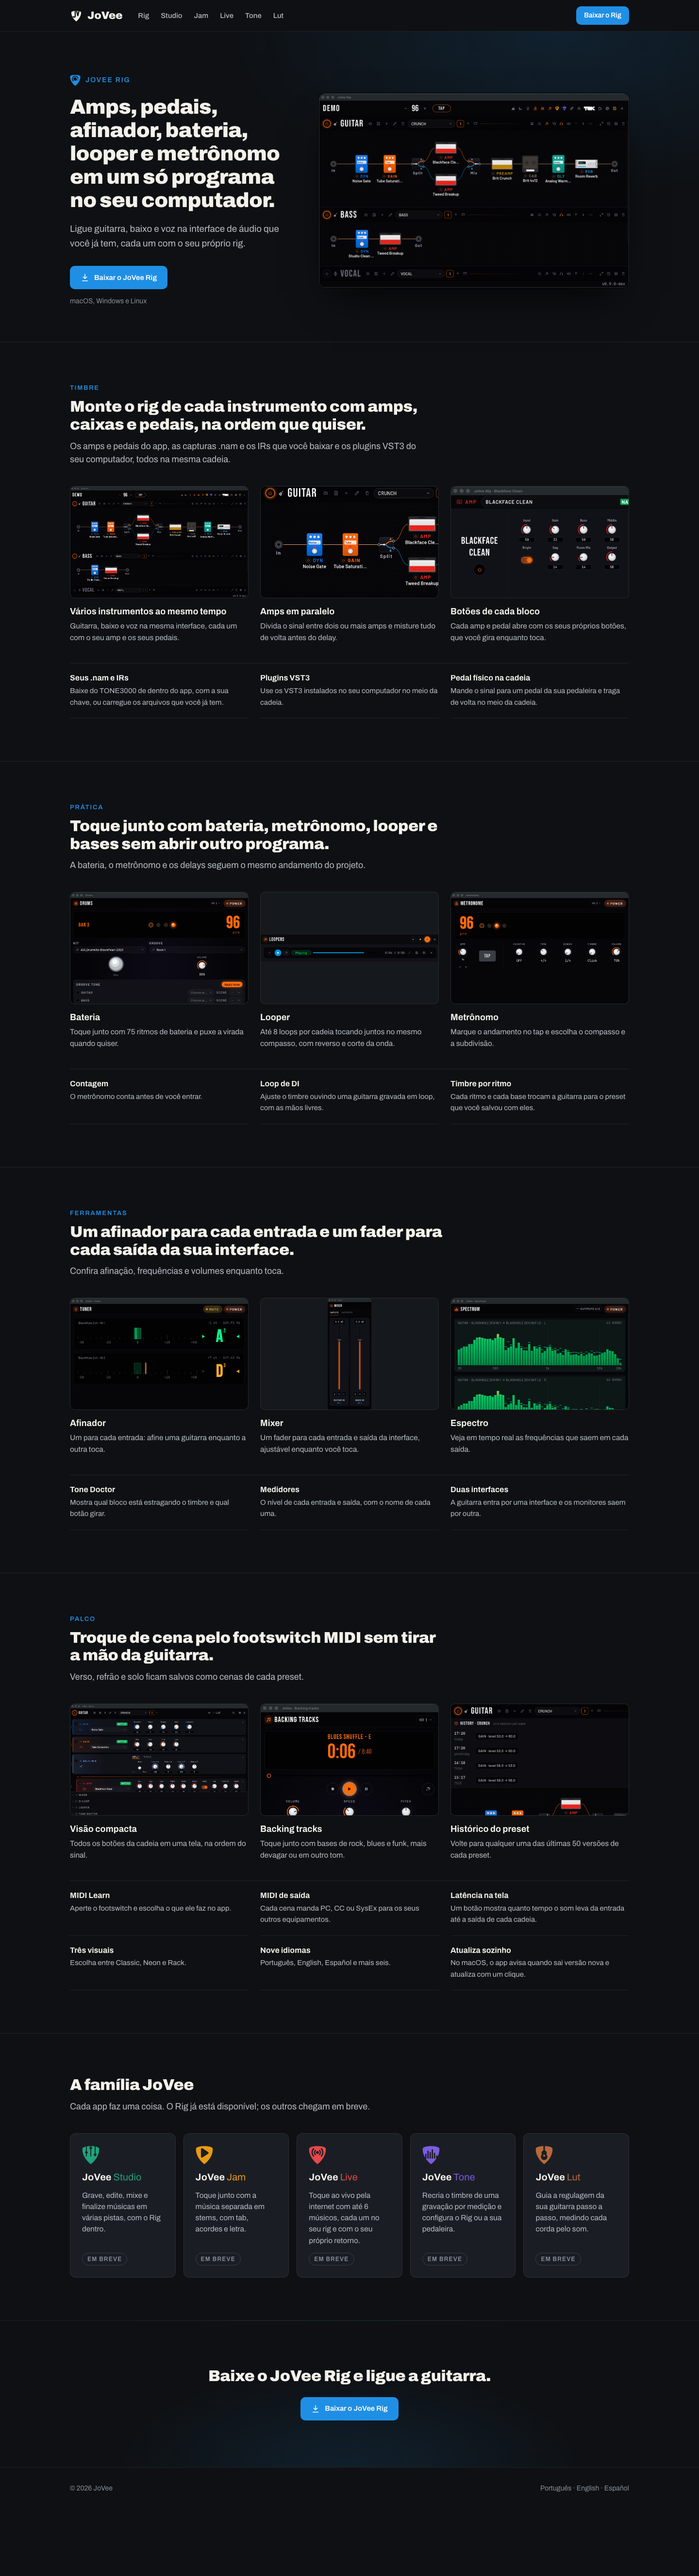
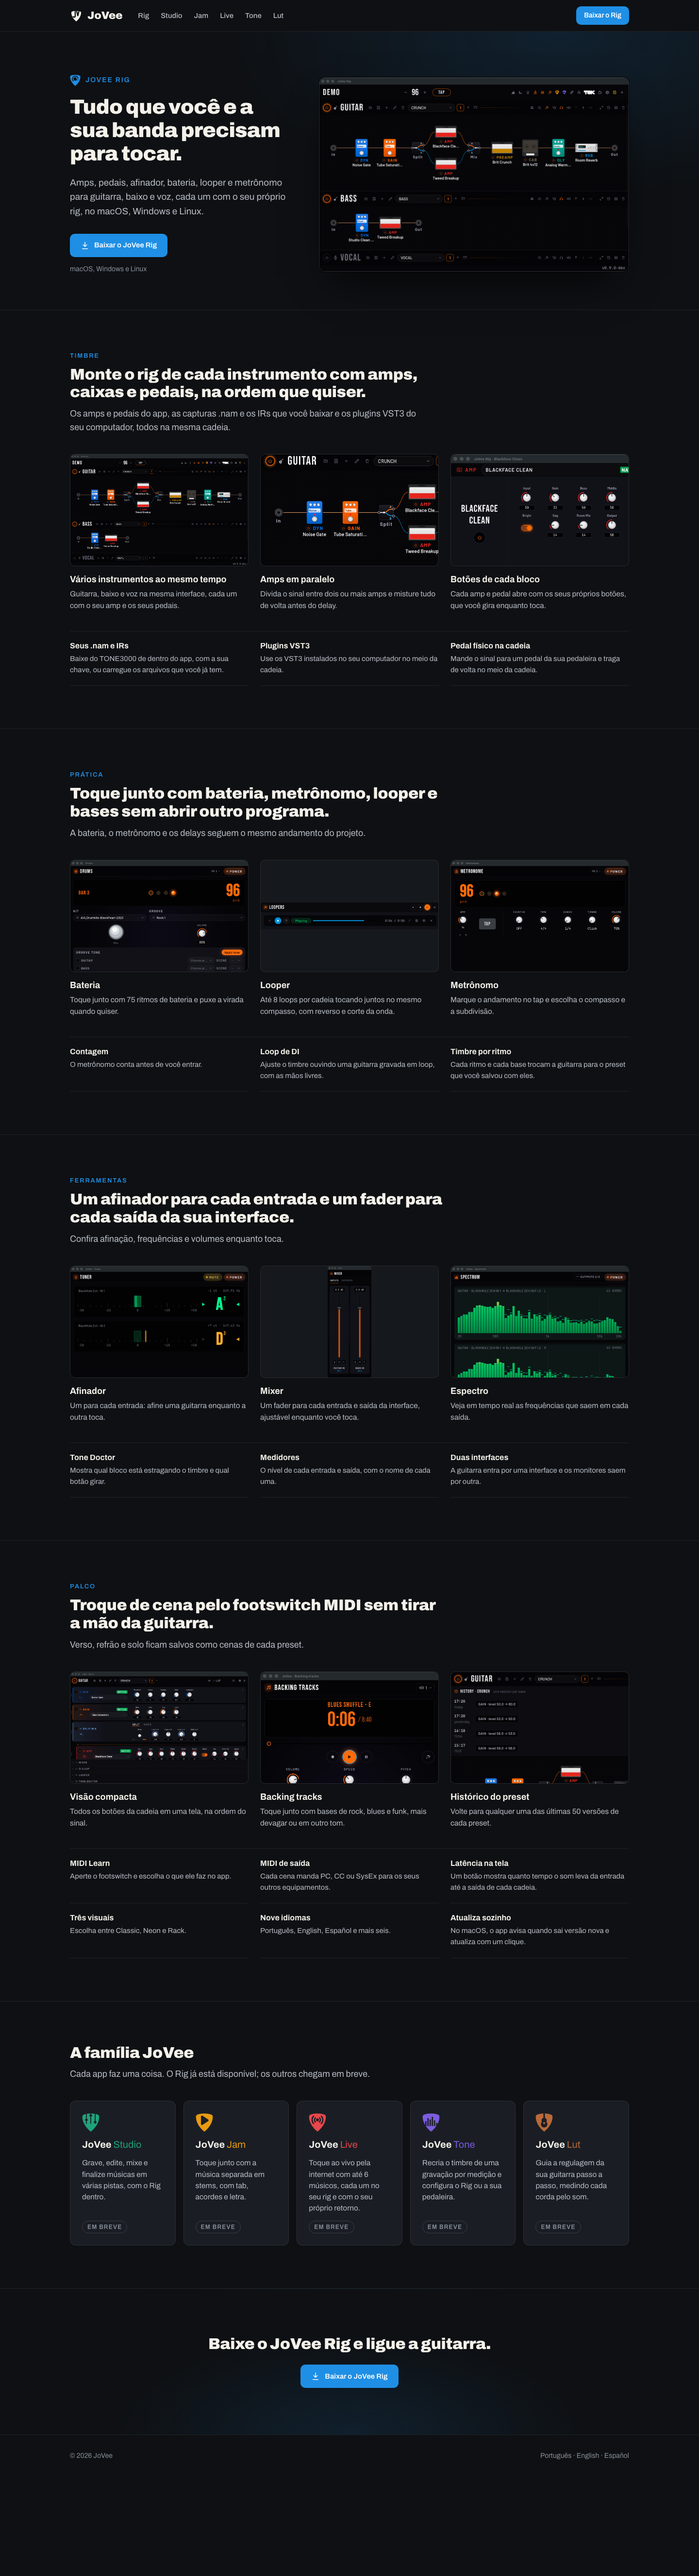
mockup: hero says everything you and your band need to play

diff --git a/mockups/home.html b/mockups/home.html
@@ -85,8 +85,8 @@ h1{margin:20px 0 20px;font:800 42px/1.14 var(--f);letter-spacing:-.02em}
 <section class="hero" id="rig"><div class="wrap">
   <div>
     <div class="eyebrow"><img src="assets/jovee-rig-symbol.svg" alt="">JoVee Rig</div>
-    <h1>Amps, pedais, afinador, bateria, looper e metrônomo em um só programa no seu computador.</h1>
-    <p class="lede">Ligue guitarra, baixo e voz na interface de áudio que você já tem, cada um com o seu próprio rig.</p>
+    <h1>Tudo que você e a sua banda precisam para tocar.</h1>
+    <p class="lede">Amps, pedais, afinador, bateria, looper e metrônomo para guitarra, baixo e voz, cada um com o seu próprio rig, no macOS, Windows e Linux.</p>
     <a class="btn btn-rig" id="baixar" href="#"><svg viewBox="0 0 24 24" fill="none" stroke="currentColor" stroke-width="2" stroke-linecap="round" stroke-linejoin="round"><path d="M12 3v12M7 10l5 5 5-5M5 21h14"/></svg>Baixar o JoVee Rig</a>
     <div class="meta">macOS, Windows e Linux</div>
   </div>
